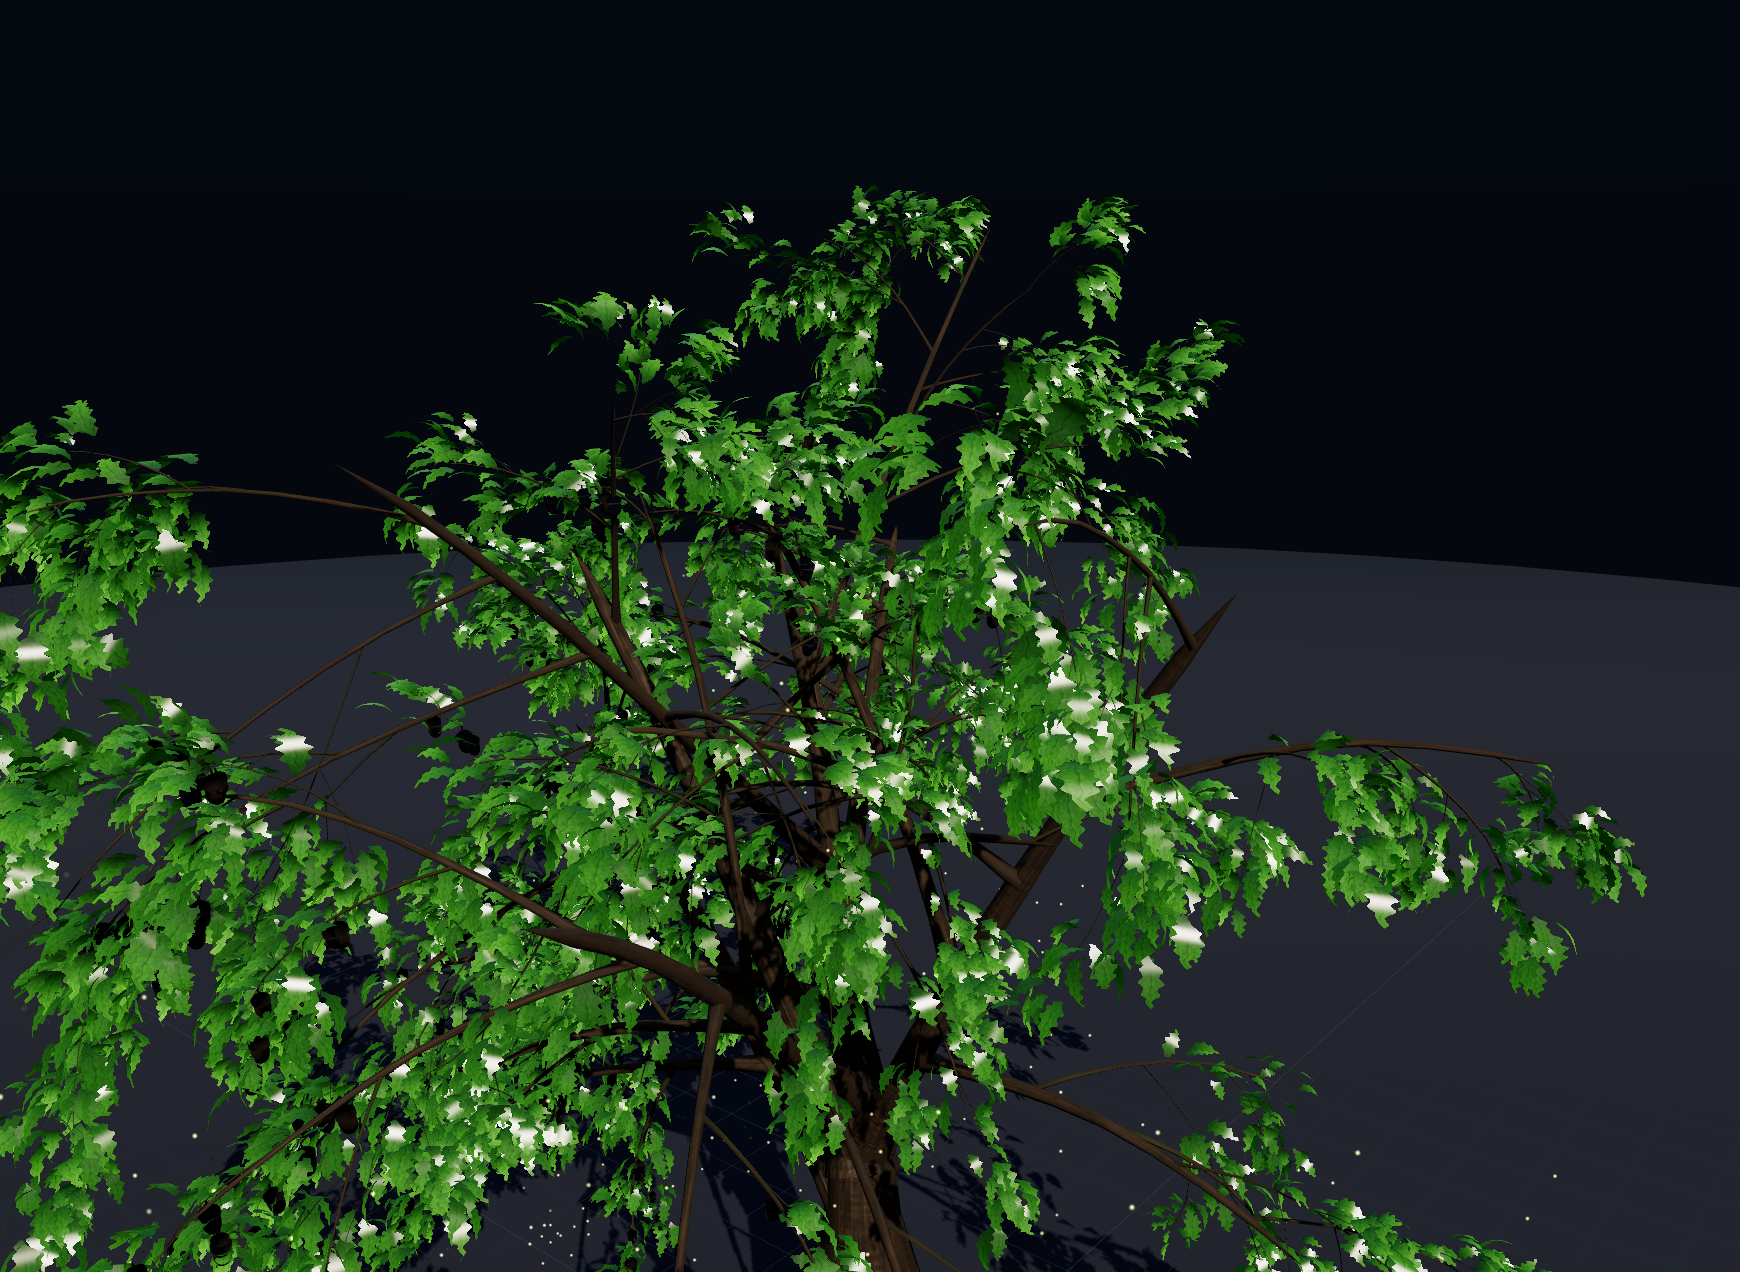
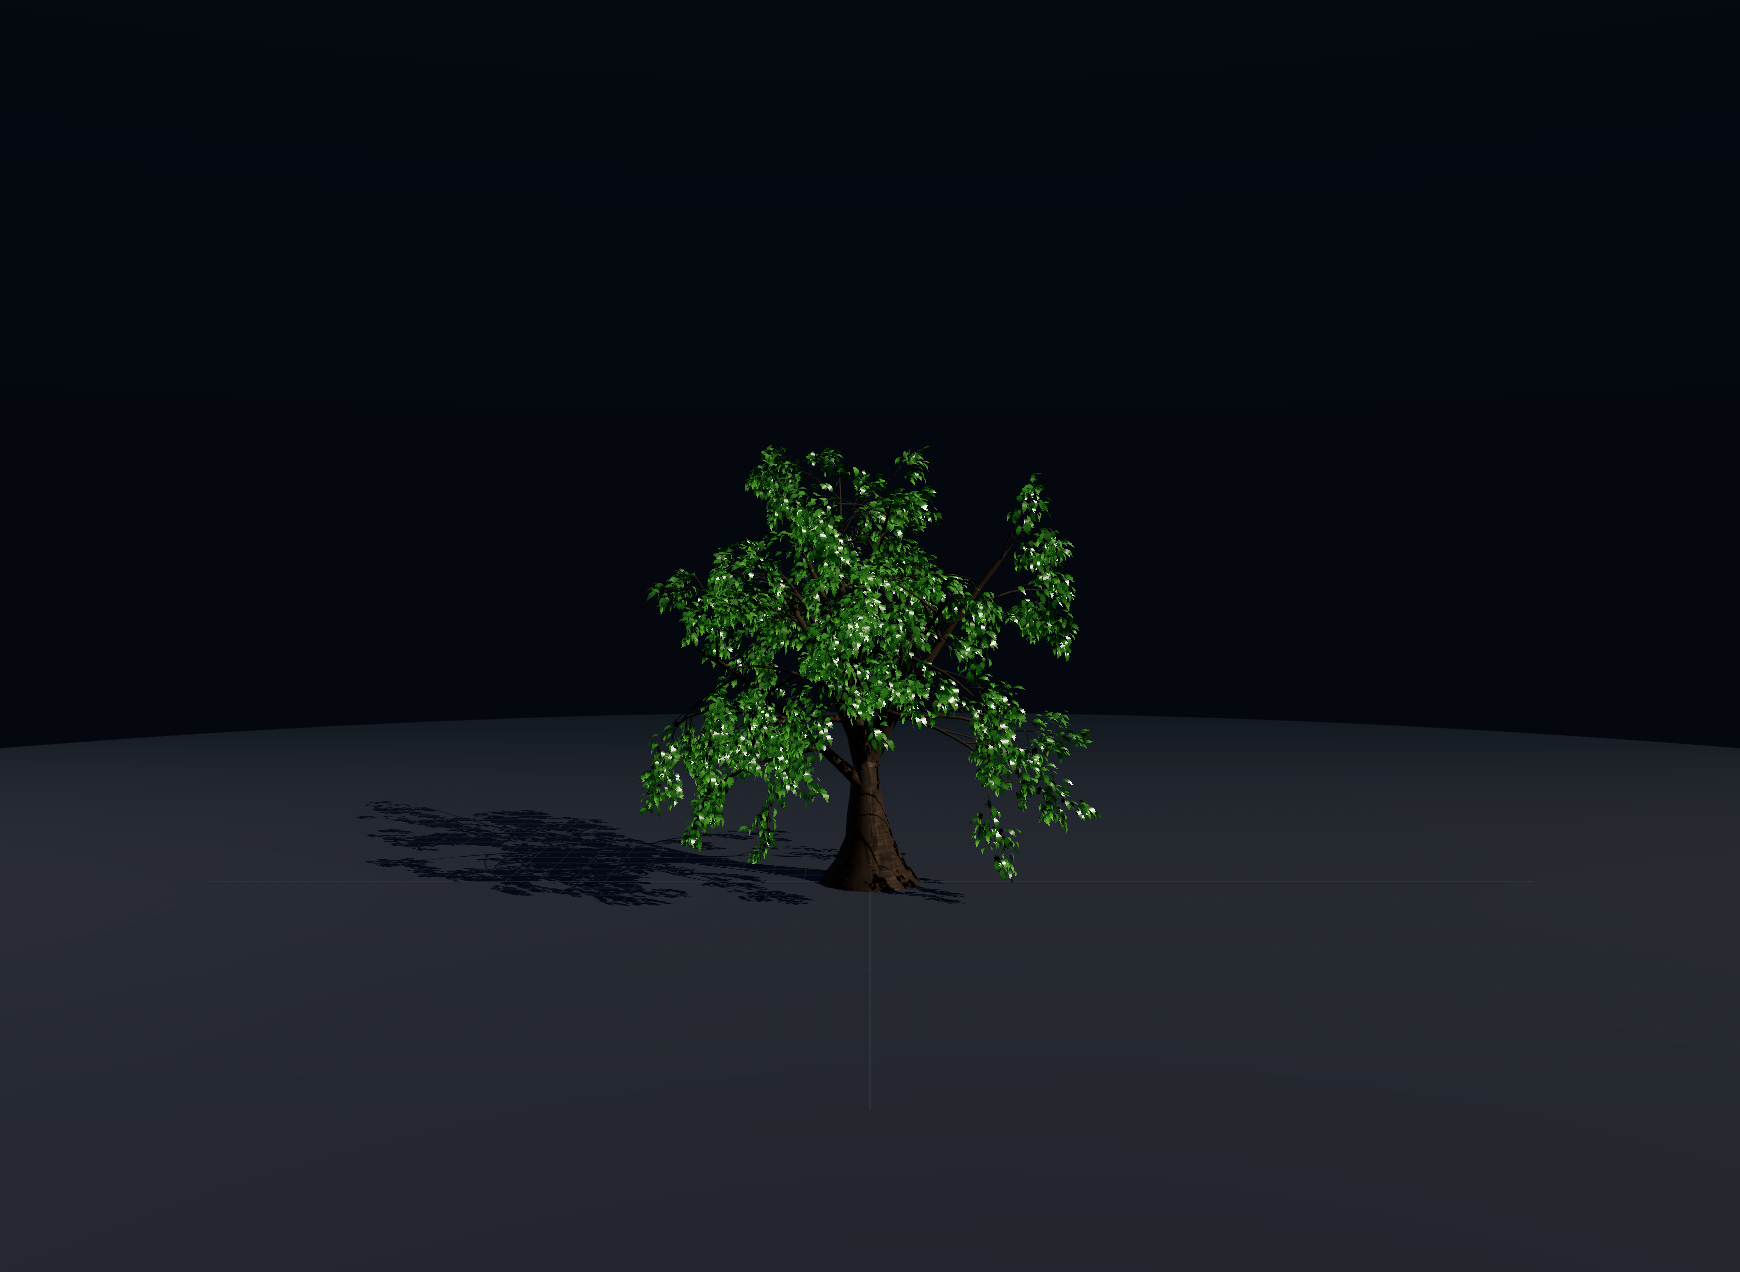
feat: 新增粒子受风影响参数，支持与树木共享风场
新增粒子的 windFollow 参数，允许粒子受风场影响并与树木共用同一套风向、强度和阵风配置。添加了参数文档和 UI 滑块，同步更新粒子着色器逻辑以实现风场对粒子的推动效果。同时添加了相关自检脚本和调试页面，确保功能正常运行。

diff --git a/dev/fx-check.html b/dev/fx-check.html
@@ -42,6 +42,9 @@
         try {
           for (let i = 0; i < 60 && !(state && state.stats && sc && sc.barkMesh); i++) await sleep(150)
           document.title = 'P3-app-ready:' + !!state + ',' + !!sc
+          // 无头/后台窗口 rAF 被暂停, 初始构建不会跑 -> 强制同步构建一次
+          win.__fastTreeSceneApi.rebuildNow(true)
+          await sleep(400)
           const base = { ...state.stats }
           bar(`基线: 叶面=${base.leafTriangles} 果=${base.fruit}`)
           // ===== 1) 反光 + 散光 =====
@@ -92,6 +95,53 @@
           sc.camera.position.set(9, state.stats.height * 0.75, 11)
           sc.camera.lookAt(sc.controls.target)
           await shot('leaf-particles')
+          // ===== 3) 粒子对接风参数: 两种风向下亮点的水平重心应明显偏移 =====
+          state.params.particles.enabled = true
+          state.params.particles.count = 900
+          state.params.particles.size = 0.22
+          state.params.particles.glow = 2.4
+          state.params.particles.windFollow = 2.2
+          state.params.wind.strength = 0.55
+          state.params.wind.enabled = true
+          win.__fastTreeSceneApi.rebuildNow(false)
+          if (sc.leafMesh) sc.leafMesh.visible = false   // 只隐藏叶片网格: 几何还在, 粒子仍有采样源
+          await sleep(400)
+          const centroid = () => {
+            // same-frame: WebGL 缓冲在 await 之后会被清空, 必须在同一帧内渲染+读像素
+            sc.renderer.render(sc.scene, sc.camera)
+            const cv = doc.querySelector('canvas')
+            const t = doc.createElement('canvas'); t.width = 240; t.height = 160
+            const cx = t.getContext('2d'); cx.drawImage(cv, 0, 0, 240, 160)
+            const px = cx.getImageData(0, 0, 240, 160).data
+            let sx = 0, n = 0
+            for (let i = 0; i < px.length; i += 4) {
+              const r = px[i], g = px[i + 1], b = px[i + 2]
+              if (r > 170 && g > 150 && b > 90) { sx += (i / 4) % 240; n++ }   // 暖白亮点
+            }
+            return n ? { x: sx / n, n } : { x: -1, n: 0 }
+          }
+          const setWind = async (deg) => {
+            state.params.wind.direction = deg
+            state.params.wind.enabled = true
+            await sleep(250)
+            for (let i = 0; i < 10; i++) { sc.renderer.render(sc.scene, sc.camera); await sleep(60) }
+            return centroid()
+          }
+          // 相机固定俯视, 让"下风向"在屏幕上对应 +x / -x
+          sc.controls.target.set(0, state.stats.height * 0.45, 0)
+          sc.camera.position.set(0, state.stats.height * 0.55, 46)
+          sc.camera.lookAt(sc.controls.target)
+          await sleep(300)
+          if (sc) sc.updateWind(state.params)
+          const east = await setWind(0)
+          bar('风 +X 时 uWindDir=' + JSON.stringify(sc.uniforms.uWindDir.value.toArray().map((v) => +v.toFixed(2))))
+          const west = await setWind(180)
+          bar('风 -X 时 uWindDir=' + JSON.stringify(sc.uniforms.uWindDir.value.toArray().map((v) => +v.toFixed(2))))
+          bar('粒子亮点水平重心: 风+ X -> ' + east.x.toFixed(1) + ' (' + east.n + ' 点) | 风- X -> ' + west.x.toFixed(1) + ' (' + west.n + ' 点) | 偏移=' + Math.abs(east.x - west.x).toFixed(1) + 'px')
+          state.params.wind.direction = 70
+          if (sc.leafMesh) sc.leafMesh.visible = true
+          await sleep(300)
+          await shot('leaf-particles-wind')
           bar('errs=' + (errs.length ? errs.slice(0, 4).join(' ;; ') : 'none'))
           document.title = 'FXCHECK-OK :: ' + lines.join(' || ').slice(0, 1800)
         } catch (e) {

diff --git a/src/core/particles.js b/src/core/particles.js
@@ -45,7 +45,7 @@ export function buildParticleSeeds(count, seed) {
   return aSeed
 }
 
-const PARTICLE_VERT = /* glsl */`
+export const PARTICLE_VERT = /* glsl */`
 uniform float uTime;
 uniform float uSize;
 uniform float uSpeed;
@@ -54,6 +54,15 @@ uniform float uSway;
 uniform float uSwirl;
 uniform float uHeight;
 uniform float uGlow;
+// --- 风场 (与树木共用同一份 uniform) ---
+uniform vec2 uWindDir;
+uniform float uWindStrength;
+uniform float uGust;
+uniform float uGustSpeed;
+uniform float uWindBias;
+uniform float uWindEnabled;
+uniform float uWindSpeed;
+uniform float uWindFollow;   // 粒子受风影响倍率
 attribute vec3 aSeed;      // phase, speedScale, swayScale
 varying float vAlpha;
 varying float vGlow;
@@ -67,7 +76,20 @@ void main() {
   vec3 p = position;
   // 下落: 从树冠高度落到地面
   p.y -= t * uFall * max(1.0, uHeight * 0.85);
-  // 横向飘动 + 打旋
+  // --- 风场: 沿下风向被吹走 (与树同源, 风向/强度/阵风一致) ---
+  vec2 windDir = normalize(uWindDir + vec2(1e-5, 1e-6));
+  // 阵风: 同一套起伏模型, 让粒子跟着树一起"一阵一阵"地走
+  float gust = 1.0 - uGust * 0.6 * (1.0 - (sin(uTime * uGustSpeed + phase * 6.28318) * 0.5 + 0.5));
+  // 风只推不拉 + bias 抬低谷 (与树叶同一规则)
+  float along = uWindStrength * uWindFollow * (0.55 * gust + uWindBias * 0.45) * uWindEnabled;
+  // 越到生命后期被吹得越远 (粒子被风带着走)
+  float carry = along * (2.5 + 9.0 * t) * (1.0 + 0.35 * sin(uTime * uWindSpeed * 2.0 + phase * 12.0));
+  p.x += windDir.x * carry;
+  p.z += windDir.y * carry;
+  // 垂直分量: 强风时粒子被上扬/翻卷
+  p.y += sin(uTime * (0.6 + uWindSpeed) + phase * 9.0) * along * 1.2;
+
+  // 独立的横向飘动 + 打旋 (无风时也有细微运动)
   float ang = (phase + t) * 6.28318 * (0.5 + phase);
   p.x += sin(ang) * uSway * swayScale * (0.4 + 0.6 * t) + sin(uTime * 0.7 + phase * 12.0) * uSwirl * 0.15;
   p.z += cos(ang * 0.8) * uSway * swayScale * (0.4 + 0.6 * t) + cos(uTime * 0.6 + phase * 9.0) * uSwirl * 0.15;
@@ -82,7 +104,7 @@ void main() {
 }
 `
 
-const PARTICLE_FRAG = /* glsl */`
+export const PARTICLE_FRAG = /* glsl */`
 uniform vec3 uColor;
 uniform float uOpacity;
 varying float vAlpha;
@@ -114,6 +136,15 @@ export function createParticleMaterial(params, sharedUniforms) {
       uGlow: { value: P.glow === undefined ? 0.8 : P.glow },
       uColor: { value: new THREE.Color(P.color || '#fff0b8') },
       uOpacity: { value: P.opacity === undefined ? 0.85 : P.opacity },
+      // 直接引用共享风场 uniform (同一个对象: 风向/强度/阵风改动会立即同步到粒子)
+      uWindDir: sharedUniforms.uWindDir,
+      uWindStrength: sharedUniforms.uWindStrength,
+      uGust: sharedUniforms.uGust,
+      uGustSpeed: sharedUniforms.uGustSpeed,
+      uWindBias: sharedUniforms.uWindBias,
+      uWindEnabled: sharedUniforms.uWindEnabled,
+      uWindSpeed: sharedUniforms.uWindSpeed,
+      uWindFollow: { value: P.windFollow === undefined ? 1 : P.windFollow },
     },
     vertexShader: PARTICLE_VERT,
     fragmentShader: PARTICLE_FRAG,
@@ -136,6 +167,7 @@ export function updateParticleMaterial(mat, params, leafBBox) {
   u.uGlow.value = P.glow === undefined ? 0.8 : P.glow
   u.uColor.value.set(P.color || '#fff0b8')
   u.uOpacity.value = P.opacity === undefined ? 0.85 : P.opacity
+  if (u.uWindFollow) u.uWindFollow.value = P.windFollow === undefined ? 1 : P.windFollow
   if (leafBBox) u.uHeight.value = Math.max(1, leafBBox.max.y - leafBBox.min.y)
 }
 

diff --git a/dev/shader-ok-check.html b/dev/shader-ok-check.html
@@ -1,0 +1,61 @@
+<!doctype html>
+<html lang="zh-CN">
+  <head><meta charset="UTF-8" /><title>shader: booting</title></head>
+  <body style="margin:0;background:#111;color:#ddd;font:12px monospace">
+    <iframe id="f" src="/" style="width:1400px;height:800px;border:0"></iframe>
+    <pre id="out">…</pre>
+    <script type="module">
+      const f = document.getElementById('f')
+      const sleep = (ms) => new Promise((r) => setTimeout(r, ms))
+      const L = []
+      const bar = (s) => { L.push(s); document.getElementById('out').textContent = L.join('\n') }
+      let win, sc, state
+      const errs = []
+      f.addEventListener('load', () => {
+        win = f.contentWindow
+        win.addEventListener('error', (e) => errs.push('ERR: ' + e.message))
+        const oe = win.console.error, ow = win.console.warn
+        win.console.error = function (...a) { errs.push('CERR: ' + a.map(String).join(' ').slice(0, 260)); oe.apply(win.console, a) }
+        win.console.warn = function (...a) { const s = a.map(String).join(' '); if (/shader|program|webgl/i.test(s)) errs.push('CWARN: ' + s.slice(0, 200)); ow.apply(win.console, a) }
+      })
+      setTimeout(async () => {
+        try {
+          document.title = 'S1'
+          sc = win.__fastTreeScene; state = win.__fastTree
+          await sleep(1200)
+          win.__fastTreeSceneApi.rebuildNow(true)
+          await sleep(400)
+          // 开启粒子 (含风场耦合的顶点着色器)
+          state.params.particles.enabled = true
+          state.params.particles.count = 400
+          sc.updateParticles(state.params)
+          await sleep(300)
+          sc.renderer.render(sc.scene, sc.camera)
+          await sleep(300)
+          // 可靠的编译检查: renderer.info.programs 里 diagnostics 为空才是编译通过
+          const progs = (sc.renderer.info.programs || [])
+          bar('program 数量: ' + progs.length)
+          let bad = 0
+          for (const p of progs) {
+            const name = p.name || 'unnamed'
+            if (p.diagnostics && (p.diagnostics.vertexShader || p.diagnostics.fragmentShader || p.diagnostics.programLog)) {
+              bad++
+              bar('✗ 编译失败: ' + name + ' | ' + String(p.diagnostics.programLog || '').replace(/\n/g, ' ').slice(0, 220))
+            }
+          }
+          bar('编译失败的 program: ' + bad + ' (期望 0)')
+          // 粒子的 draw 调用是否真的发生
+          sc.renderer.info.autoReset = false
+          sc.renderer.info.reset()
+          sc.renderer.render(sc.scene, sc.camera)
+          bar('本帧 draw calls=' + sc.renderer.info.render.calls + ' points=' + sc.renderer.info.render.points)
+          sc.renderer.info.autoReset = true
+          bar('errs=' + (errs.length ? errs.slice(0, 4).join(' ;; ') : 'none'))
+          document.title = 'SHADER-OK :: ' + L.join(' || ').slice(0, 1600)
+        } catch (e) {
+          document.title = 'SHADER-EX :: ' + (e && e.stack ? e.stack : e).toString().slice(0, 600)
+        }
+      }, 3000)
+    </script>
+  </body>
+</html>

diff --git a/dev/dbg-check.html b/dev/dbg-check.html
@@ -1,0 +1,45 @@
+<!doctype html>
+<html lang="zh-CN">
+  <head><meta charset="UTF-8" /><title>dbg: booting</title></head>
+  <body style="margin:0;background:#111;color:#ddd;font:12px monospace">
+    <iframe id="f" src="/" style="width:1400px;height:800px;border:0"></iframe>
+    <pre id="out">…</pre>
+    <script type="module">
+      const f = document.getElementById('f')
+      const sleep = (ms) => new Promise((r) => setTimeout(r, ms))
+      const L = []
+      const bar = (s) => { L.push(s); document.getElementById('out').textContent = L.join('\n') }
+      let win, sc, state
+      const errs = []
+      f.addEventListener('load', () => {
+        win = f.contentWindow
+        win.addEventListener('error', (e) => errs.push('ERR: ' + e.message + ' @' + (e.filename || '').split('/').pop() + ':' + e.lineno))
+        win.addEventListener('unhandledrejection', (e) => errs.push('REJ: ' + String(e.reason && e.reason.message || e.reason)))
+        const oe = win.console.error
+        win.console.error = function (...a) { errs.push('CERR: ' + a.map(String).join(' ').slice(0, 300)); oe.apply(win.console, a) }
+        window.addEventListener('error', (e) => errs.push('PARENT-ERR: ' + e.message))
+      })
+      setTimeout(async () => {
+        try {
+          document.title = 'D1'
+          sc = win.__fastTreeScene; state = win.__fastTree
+          bar('__fastTree=' + !!state + ' __fastTreeScene=' + !!sc)
+          await sleep(1500)
+          bar('state.stats=' + (state && state.stats ? Object.keys(state.stats).length + ' keys' : 'null'))
+          bar('barkMesh=' + !!sc.barkMesh + ' leafMesh=' + !!sc.leafMesh + ' treeGroup children=' + (sc.treeGroup ? sc.treeGroup.children.length : '-'))
+          // 手动重建, 抓住真正的异常
+          try {
+            sc.build(state.params, state.selection || { ranges: [] })
+            bar('手动 build 成功: barkMesh=' + !!sc.barkMesh + ' children=' + sc.treeGroup.children.length)
+          } catch (e) {
+            bar('手动 build 抛错: ' + (e && e.message) + ' | ' + String(e && e.stack).split('\n')[1])
+          }
+          bar('errs=' + (errs.length ? errs.slice(0, 5).join(' ;; ') : 'none'))
+          document.title = 'DBG-OK :: ' + L.join(' || ').slice(0, 1500)
+        } catch (e) {
+          document.title = 'DBG-EX :: ' + (e && e.stack ? e.stack : e).toString().slice(0, 600)
+        }
+      }, 3500)
+    </script>
+  </body>
+</html>

diff --git a/src/components/panels/MaterialPanel.vue b/src/components/panels/MaterialPanel.vue
@@ -55,6 +55,8 @@
       <SliderRow label="下落距离" v-model="pt.fall" :min="0" :max="2" :step="0.05" />
       <SliderRow label="横向飘动" v-model="pt.sway" :min="0" :max="3" :step="0.05" />
       <SliderRow label="打旋" v-model="pt.swirl" :min="0" :max="3" :step="0.05" />
+      <SliderRow label="受风影响" v-model="pt.windFollow" :min="0" :max="3" :step="0.05"
+        hint="粒子被风带走的强度: 与树木共用同一套风向/强度/阵风 (0 = 不受风)" />
       <SliderRow label="采样范围" v-model="pt.spread" :min="0.2" :max="1.5" :step="0.01"
         hint="发射点取树冠的哪一部分 (1 = 整个树冠)" />
       <SliderRow label="粒子亮度" v-model="pt.glow" :min="0.1" :max="3" :step="0.05" />

diff --git a/src/core/paramDocs.js b/src/core/paramDocs.js
@@ -233,6 +233,7 @@ export const PARAM_DOCS = {
   下落距离: '粒子在生命周期内下落的距离倍率',
   横向飘动: '粒子横向飘动/打旋的幅度',
   打旋: '额外的螺旋扰动强度',
+  受风影响: '粒子被风带走的强度: 与树木共用同一套风向/强度/阵风, 风一吹粒子就顺着下风向飘 (0 = 不受风)',
   采样范围: '发射点取树冠的哪一部分 (1 = 整个树冠, <1 = 只取内层)',
   粒子亮度: '粒子自发光亮度 (叠加混合下越亮越像光点)',
   粒子不透明度: '粒子整体不透明度',

diff --git a/src/core/materials.js b/src/core/materials.js
@@ -200,6 +200,15 @@ const LEAF_REFLECTION = /* glsl */`
   #endif
 `
 
+/** 供自检使用: 返回注入用的 GLSL 片段与声明头 (静态检查"用了但没声明"的 uniform) */
+export function internalShaderSources() {
+  return {
+    fragmentHeader: FRAGMENT_HEADER,
+    vertexHeader: VERTEX_HEADER,
+    snippets: { TRANSLUCENCY, LEAF_REFLECTION, SELECTION_GLOW },
+  }
+}
+
 function hashCode(s) {
   let h = 2166136261
   for (let i = 0; i < s.length; i++) {

diff --git a/src/core/params.js b/src/core/params.js
@@ -188,6 +188,7 @@ export function defaultParams() {
       opacity: 0.85,
       glow: 0.8,           // 自发光强度 (叠加模式更亮)
       spread: 1.0,         // 采样范围 = 树冠半径 × 该值
+      windFollow: 1.0,     // 受风影响倍率 (与树木同一套风向/强度/阵风)
     },
 
     // ---------------- 果实 ----------------
